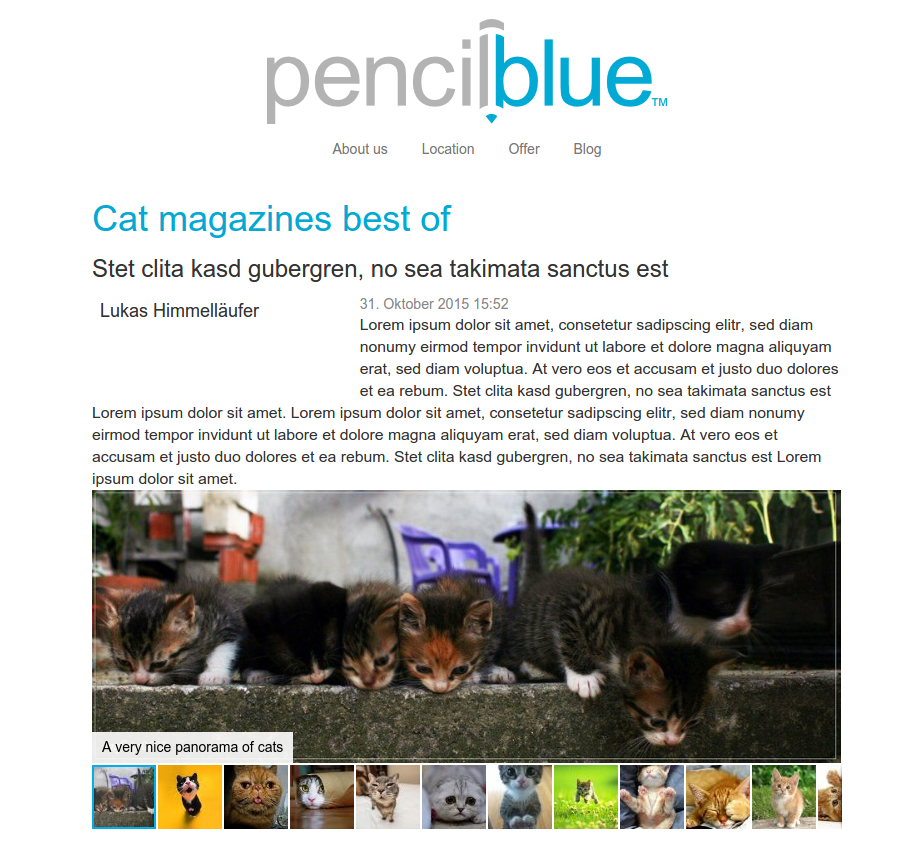
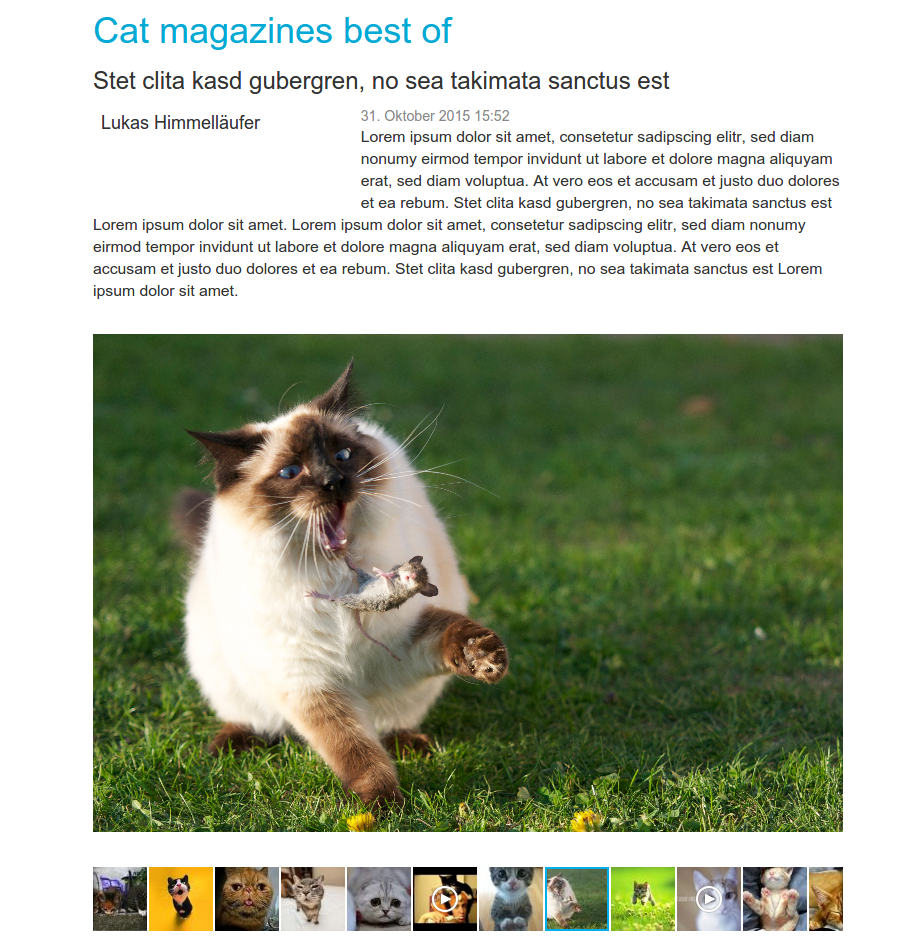
avoid empty gallery tag if no media present

diff --git a/lib/content_view_loader.js b/lib/content_view_loader.js
@@ -67,9 +67,36 @@ module.exports = function(pb) {
         ats.registerLocal('article_timestamp_LTS',  timestamp.format('LTS'));  // 8:30:25 PM
         ats.registerLocal('article_layout', new pb.TemplateValue(content.layout, false));
         ats.registerLocal('article_url', content.url);
-        ats.registerLocal('article_gallery_elements', function(flag, cb) {
-            var i = 1;
-            self.renderGalleryElements(content, options, cb);
+        ats.registerLocal('article_gallery', function(flag, cb) {
+            var tasks = util.getTasks(content.article_media, function(mediaArray, i) {
+                return function(callback) {
+                    self.mediaService.loadById(mediaArray[i], callback);
+                };
+            });
+            async.series(tasks, function(err, mediaDescriptors) {
+                var i = 0;
+                var validMediaCounter = 0;
+                for (; i < mediaDescriptors.length; i++) {
+                    if (mediaDescriptors[i].media_type ==='image' ||
+                        mediaDescriptors[i].media_type ==='youtube' ||
+                        mediaDescriptors[i].media_type ==='vimeo')   {
+                        validMediaCounter++;
+                    }
+                }
+
+                if(validMediaCounter === 0) {
+                    cb(null, '');
+                }
+                else {
+                    var gts = ats.getChildInstance();
+                    gts.registerLocal('article_gallery_elements', function(flag, callback) {
+                        self.renderGalleryElements(mediaDescriptors, options, callback);
+                    });
+                    gts.load('elements/article/gallery', function(err, content) {
+                        cb(err, new pb.TemplateValue(content, false));
+                    });                
+                }
+            });
         });
         ats.registerLocal('display_byline', ContentViewLoader.getDisplayAttr(showByLine));
         ats.registerLocal('author_photo', ContentViewLoader.valOrEmpty(content.author_photo));
@@ -93,10 +120,10 @@ module.exports = function(pb) {
     };
 
 
-    ContentViewLoader.prototype.renderGalleryElements = function(content, options, cb) {
+    ContentViewLoader.prototype.renderGalleryElements = function(mediaDescriptors, options, cb) {
         var self  = this;
 
-        var tasks = util.getTasks(content.article_media, function(mediaArray, i) {
+        var tasks = util.getTasks(mediaDescriptors, function(mediaArray, i) {
             return function(callback) {
                 self.renderGalleryElement(mediaArray[i], options, callback);
             };
@@ -106,34 +133,30 @@ module.exports = function(pb) {
         });
     };
 
-    ContentViewLoader.prototype.renderGalleryElement = function(mediaId, options, cb) {
+    ContentViewLoader.prototype.renderGalleryElement = function(descriptor, options, cb) {
         var self = this;
 
-        //TODO get url-prefix from service
-
-        self.mediaService.loadById(mediaId, function(err, descriptor) {
-            var imagePath;
-            var gts = self.ts.getChildInstance();
-            gts.registerLocal('article_gallery_elem_name', ContentViewLoader.valOrEmpty(descriptor.name));
-            gts.registerLocal('article_gallery_elem_caption', ContentViewLoader.valOrEmpty(descriptor.caption));
-            if(descriptor.media_type === 'image') {
-                imagePath = url_prefix  + descriptor.location.substring(7);
-                gts.registerLocal('article_gallery_elem_url', imagePath);
-                gts.load('elements/article/gallery_element', cb);
-            }
-            else if (descriptor.media_type === 'youtube') {
-                imagePath = "https://youtube.com/watch?v="  + descriptor.location;
-                gts.registerLocal('article_gallery_elem_url', imagePath);
-                gts.load('elements/article/gallery_element_video', cb);
-            }
-            else if (descriptor.media_type === 'vimeo') {
-                imagePath = "http://vimeo.com/"  + descriptor.location;
-                gts.registerLocal('article_gallery_elem_url', imagePath);
-                gts.load('elements/article/gallery_element_video', cb);
-            }
-            else 
-                cb(null, '', false);
-        });
+        var imagePath;
+        var gts = self.ts.getChildInstance();
+        gts.registerLocal('article_gallery_elem_name', ContentViewLoader.valOrEmpty(descriptor.name));
+        gts.registerLocal('article_gallery_elem_caption', ContentViewLoader.valOrEmpty(descriptor.caption));
+        if(descriptor.media_type === 'image') {
+            imagePath = url_prefix  + descriptor.location.substring(7);
+            gts.registerLocal('article_gallery_elem_url', imagePath);
+            gts.load('elements/article/gallery_element', cb);
+        }
+        else if (descriptor.media_type === 'youtube') {
+            imagePath = "https://youtube.com/watch?v="  + descriptor.location;
+            gts.registerLocal('article_gallery_elem_url', imagePath);
+            gts.load('elements/article/gallery_element_video', cb);
+        }
+        else if (descriptor.media_type === 'vimeo') {
+            imagePath = "http://vimeo.com/"  + descriptor.location;
+            gts.registerLocal('article_gallery_elem_url', imagePath);
+            gts.load('elements/article/gallery_element_video', cb);
+        }
+        else 
+            cb(null, '');
     };
 
 

diff --git a/templates/elements/article.html b/templates/elements/article.html
@@ -7,7 +7,7 @@
             <div class="timestamp" style="^article_timestamp_display^">^article_timestamp_LLL^</div>
             ^article_layout^
         </div>
-        ^tmp_elements=article=gallery^
+        ^article_gallery^
         ^comments^
         <div class="spacer"></div>
     </div>
